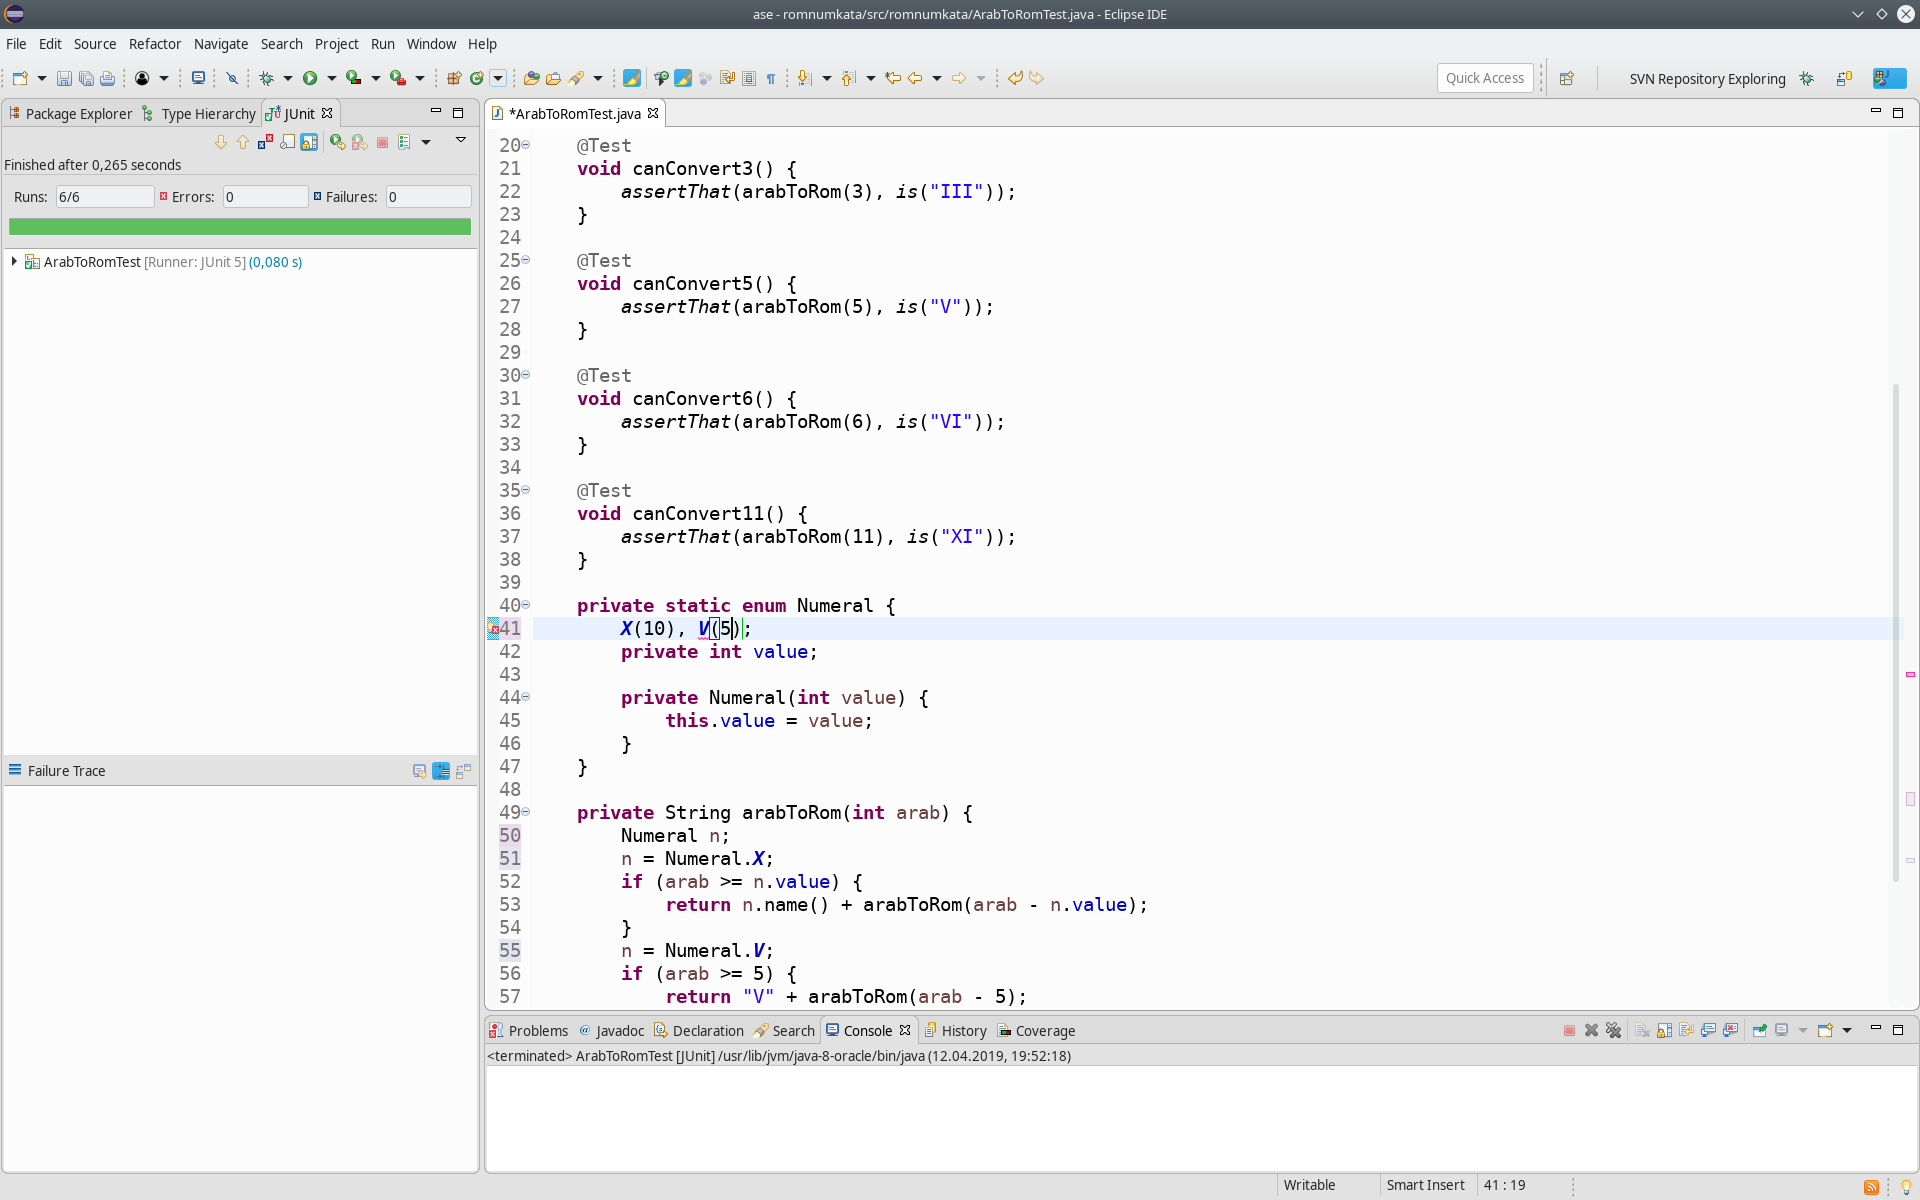
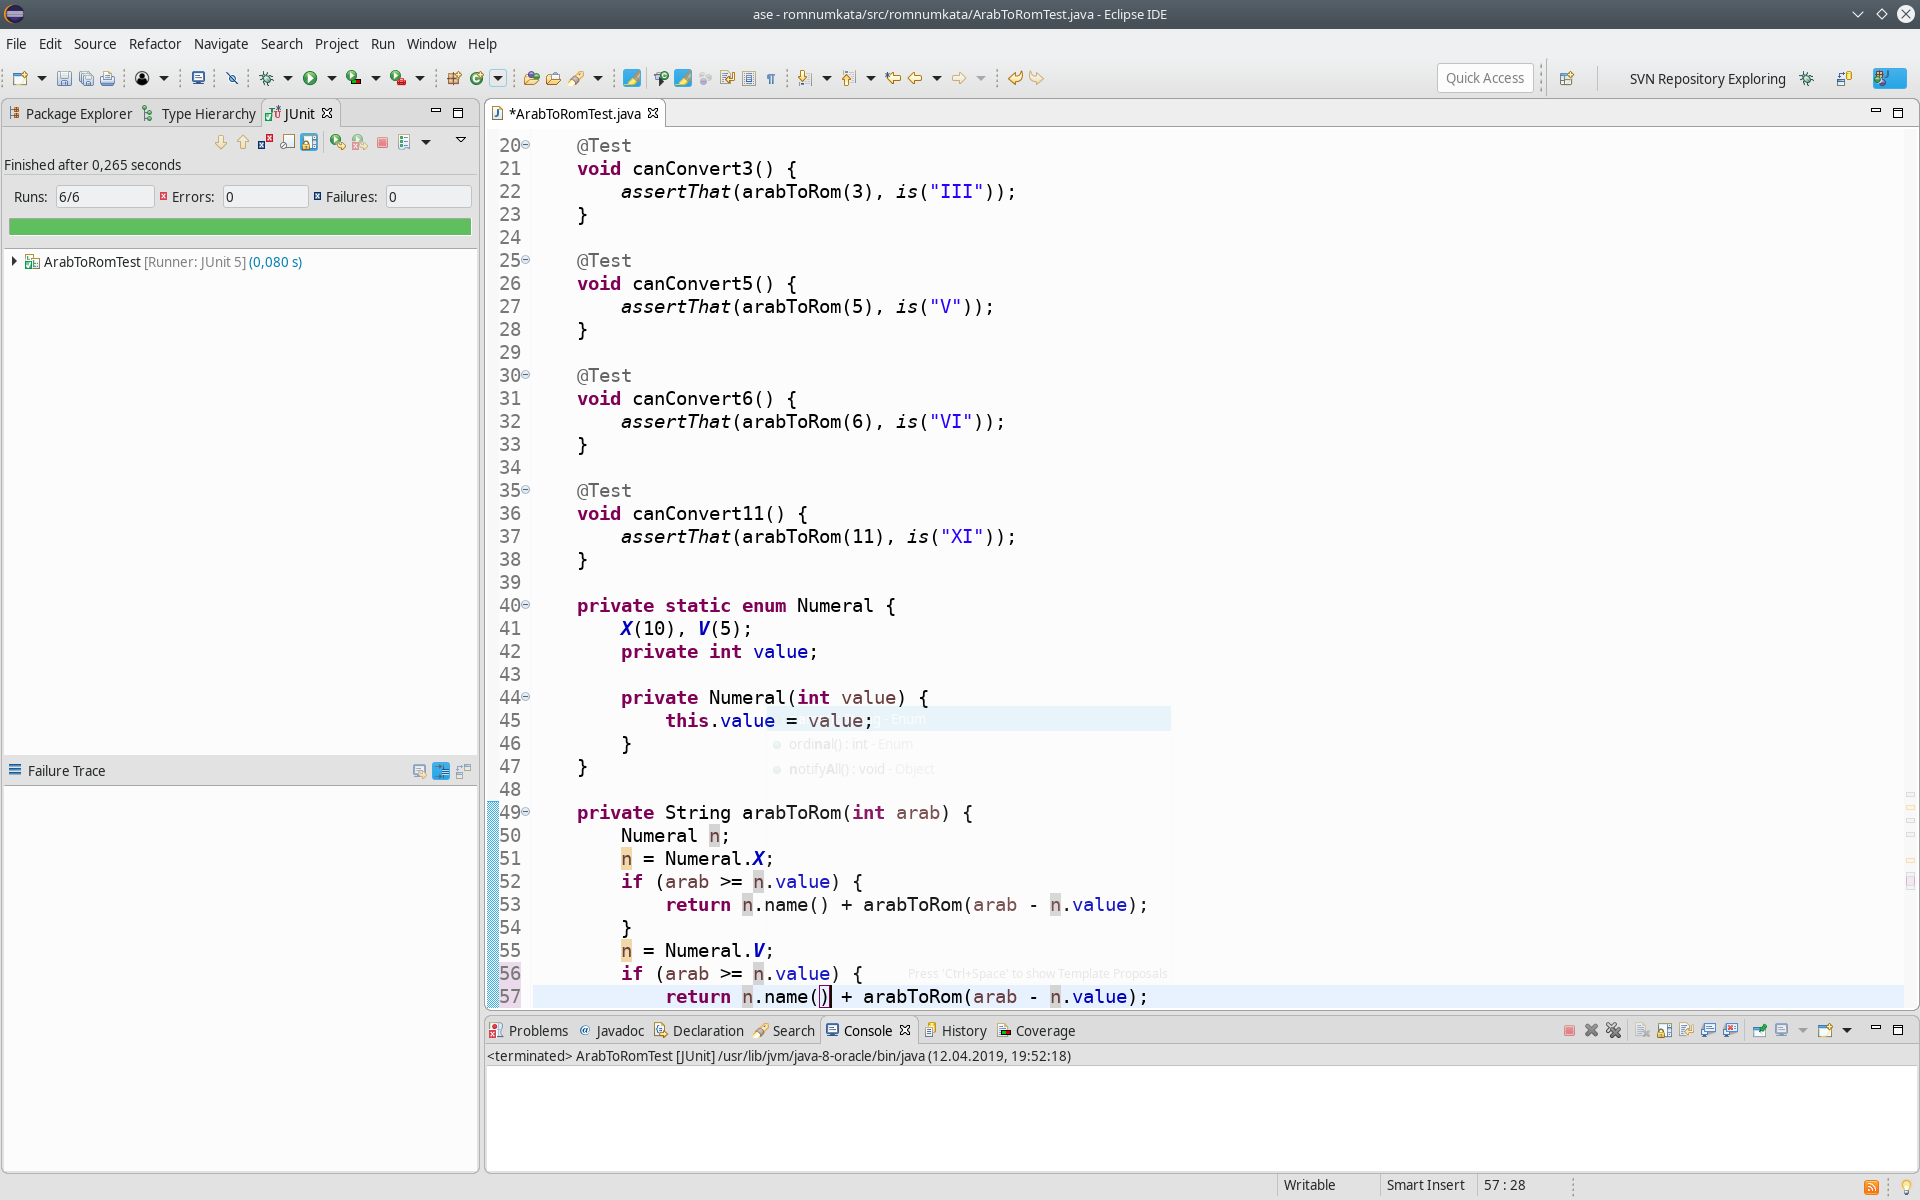
autocommit on change

diff --git a/src/romnumkata/ArabToRomTest.java b/src/romnumkata/ArabToRomTest.java
@@ -53,8 +53,8 @@ public class ArabToRomTest {
 			return n.name() + arabToRom(arab - n.value);
 		}
 		n = Numeral.V;
-		if (arab >= 5) {
-			return "V" + arabToRom(arab - 5);
+		if (arab >= n.value) {
+			return n.name() + arabToRom(arab - n.value);
 		}
 		if (arab >= 1) {
 			return "I" + arabToRom(arab - 1);
